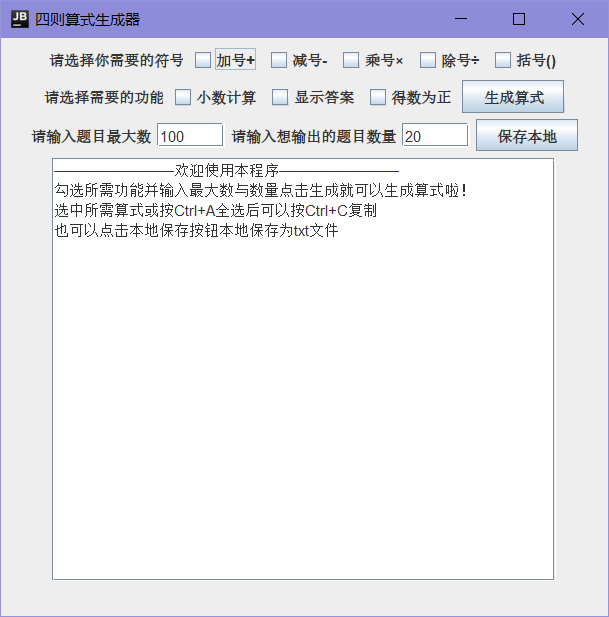
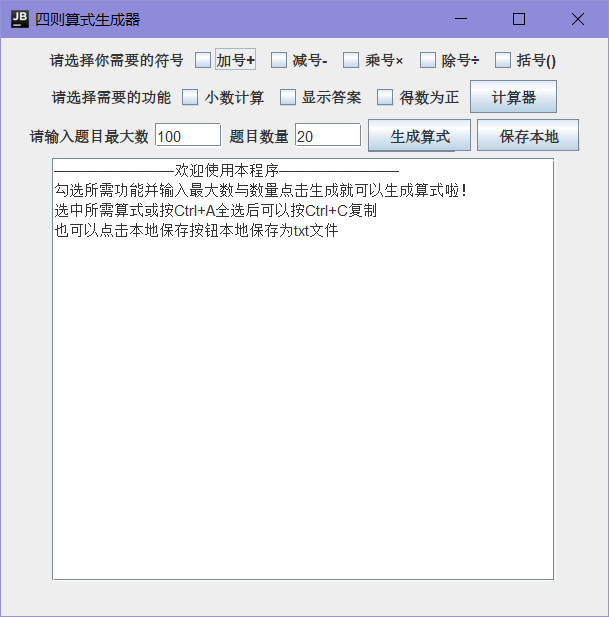
V1.2

Changed region(s): [[0.0312, 0.1232, 0.9672, 0.2464]]

diff --git a/README.md b/README.md
@@ -1,12 +1,19 @@
-# 四则运算算式生成器 Four Operations Generator
+# 四则运算算式生成器+计算器
 
 本程序能够自动随机生成各种运算
 
-<img src="https://raw.githubusercontent.com/KobayashiSouryuu/FourOperationsGenerator/master/%E6%BC%94%E7%A4%BA1.png" width="50%">
-<img src="https://raw.githubusercontent.com/KobayashiSouryuu/FourOperationsGenerator/master/%E6%BC%94%E7%A4%BA2.png" width="50%">
+可以在加减乘除中选择运算，可以选择是否有括号，是否有小数，结论是否为正数等
+
+生成的算式可以保存到本地中
+
+另外本程序附带计算器，可以进行一系列简单的运算
 
 ## 已知bug
 
 1.最大数为1且勾选小数时，会出现大于1的数
 
 2.勾选小数时不会出现(-1,1)区间的小数
+
+3.java的double精度问题导致在勾选除法或小数时部分计算结果有细小误差，展现出来的假设答案是6，可能显示为6.0000000001
+
+##### 如有其他bug欢迎反馈
